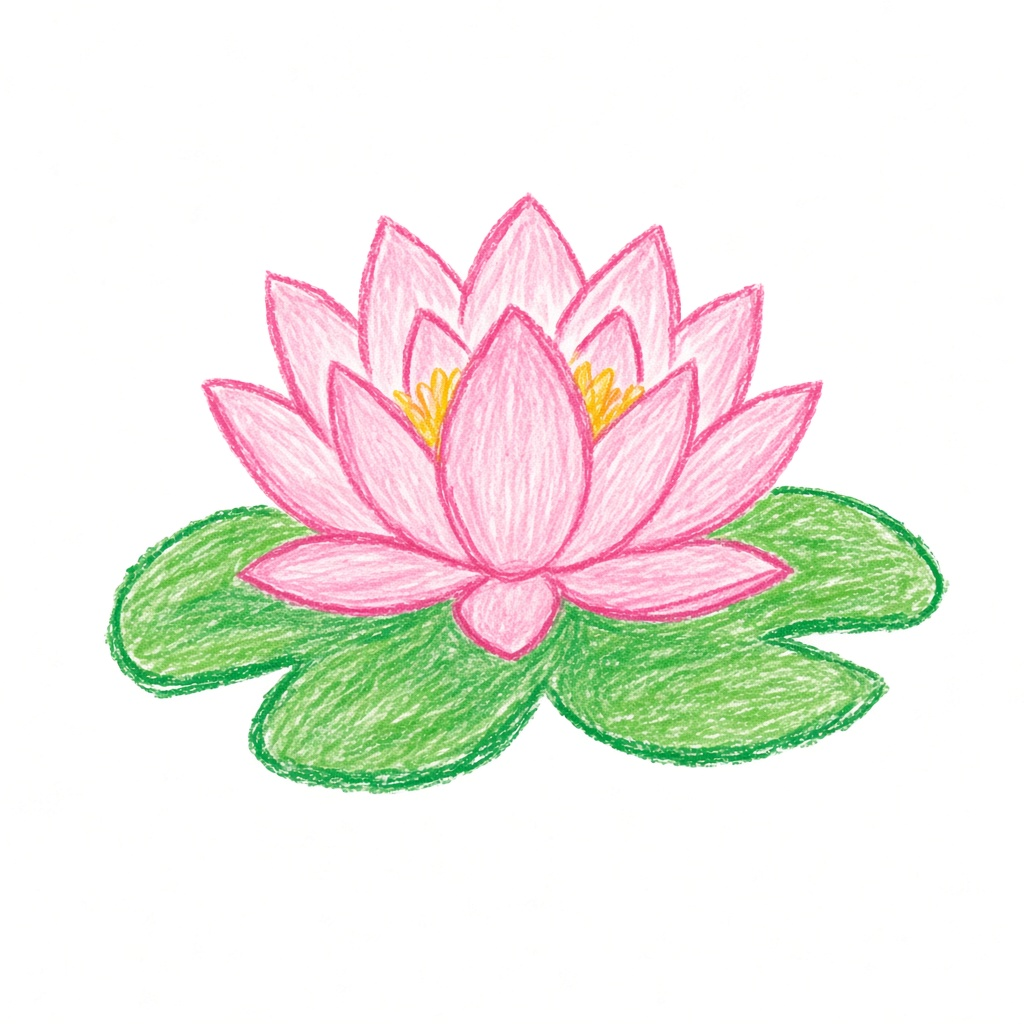
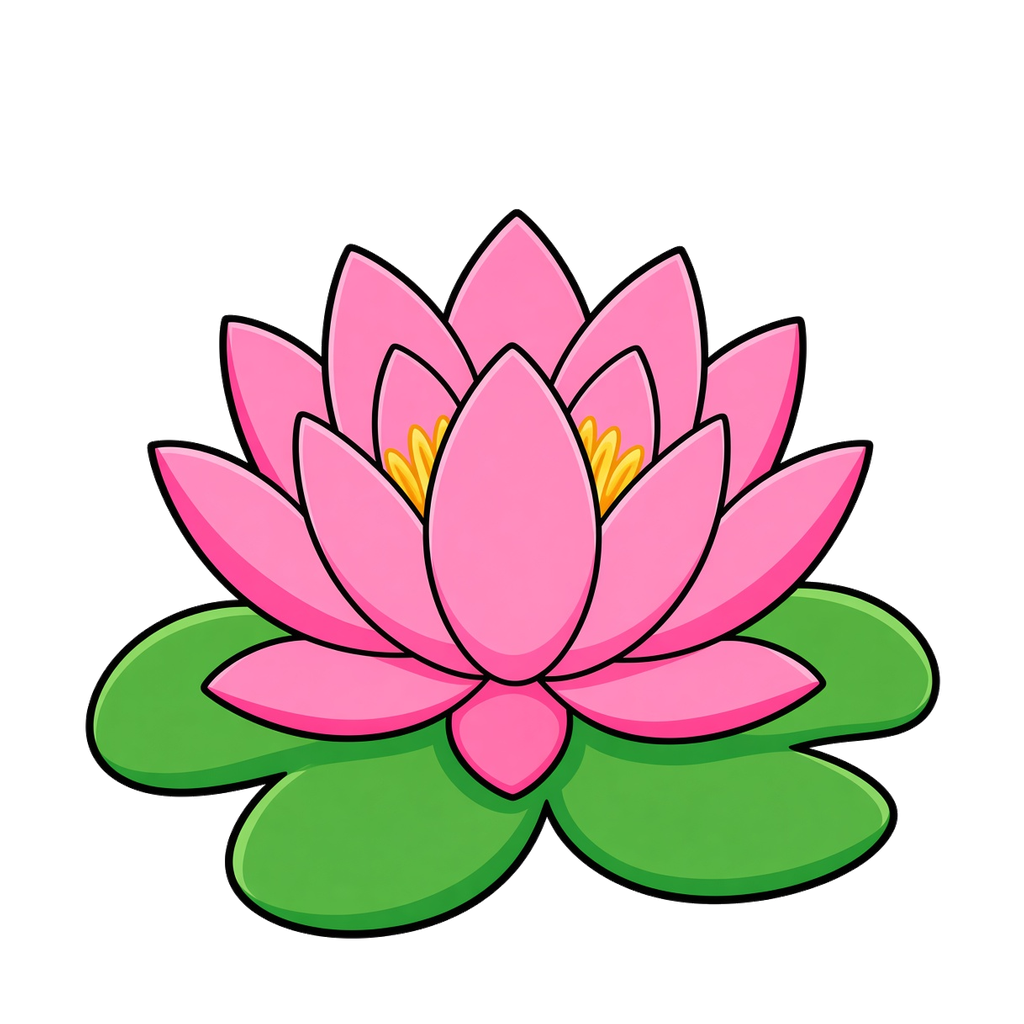
Queen Team-Up: softpass full art rework (tip 2026-11-15)
Replace shelf cover, pond background, character sheets, lily pad, and lotus
from approved softpass pack. Bump hub and play cache pins; add ASSET_V on
swapped PNG paths in game.js. Stage, bubble-bath, and star-director-lineup
unchanged.

diff --git a/play/queen-team-up/js/game.js b/play/queen-team-up/js/game.js
@@ -27,13 +27,15 @@ const PADS = [
   { x: 1970, y: 310, w: 270, h: 26, gugu: true },
 ];
 
+const ASSET_V = "?v=10";
+
 const ROSTER = [
-  { id: "mermaid", name: "Mermaid", element: "water", src: "assets/characters/mermaid.png", cols: 4, rows: 1, col: 1, row: 0, label: true },
-  { id: "sea-queen", name: "Sea queen", element: "water", src: "assets/characters/sea-queen.png", cols: 2, rows: 2, col: 0, row: 0 },
-  { id: "sky-queen", name: "Sky queen", element: "air", src: "assets/characters/sky-queen.png", cols: 2, rows: 2, col: 0, row: 0 },
-  { id: "plant-queen", name: "Plant queen", element: "plant", src: "assets/characters/plant-queen.png", cols: 4, rows: 1, col: 0, row: 0, label: true },
-  { id: "dancing-queen", name: "Dancing queen", element: "air", src: "assets/characters/dancing-queen.png", cols: 3, rows: 2, col: 2, row: 0, label: true },
-  { id: "teddy", name: "Yellow bear", element: "plant", src: "assets/characters/teddy.png", cols: 4, rows: 2, col: 0, row: 0, label: true },
+  { id: "mermaid", name: "Mermaid", element: "water", src: `assets/characters/mermaid.png${ASSET_V}`, cols: 4, rows: 1, col: 1, row: 0, label: true },
+  { id: "sea-queen", name: "Sea queen", element: "water", src: `assets/characters/sea-queen.png${ASSET_V}`, cols: 2, rows: 2, col: 0, row: 0 },
+  { id: "sky-queen", name: "Sky queen", element: "air", src: `assets/characters/sky-queen.png${ASSET_V}`, cols: 2, rows: 2, col: 0, row: 0 },
+  { id: "plant-queen", name: "Plant queen", element: "plant", src: `assets/characters/plant-queen.png${ASSET_V}`, cols: 4, rows: 1, col: 0, row: 0, label: true },
+  { id: "dancing-queen", name: "Dancing queen", element: "air", src: `assets/characters/dancing-queen.png${ASSET_V}`, cols: 3, rows: 2, col: 2, row: 0, label: true },
+  { id: "teddy", name: "Yellow bear", element: "plant", src: `assets/characters/teddy.png${ASSET_V}`, cols: 4, rows: 2, col: 0, row: 0, label: true },
 ];
 
 const stage = document.getElementById("stage");
@@ -749,13 +751,13 @@ async function boot() {
   useCoarsePointer();
 
   const jobs = [
-    loadImage("assets/backgrounds/full-pond.png").then((img) => (images.pond = img)),
+    loadImage(`assets/backgrounds/full-pond.png${ASSET_V}`).then((img) => (images.pond = img)),
     loadImage("assets/backgrounds/bubble-bath.png").then((img) => (images.bath = img)),
     loadImage("assets/backgrounds/stage.png").then((img) => (images.stage = img)),
-    loadImage("assets/elements/lily-pad.png").then((img) => (images.lily = img)),
-    loadImage("assets/elements/lotus.png").then((img) => (images.lotus = img)),
-    loadImage("assets/characters/gugu.png").then((img) => (images.gugu = img)),
-    loadImage("assets/characters/star-director.png").then((img) => (images.director = img)),
+    loadImage(`assets/elements/lily-pad.png${ASSET_V}`).then((img) => (images.lily = img)),
+    loadImage(`assets/elements/lotus.png${ASSET_V}`).then((img) => (images.lotus = img)),
+    loadImage(`assets/characters/gugu.png${ASSET_V}`).then((img) => (images.gugu = img)),
+    loadImage(`assets/characters/star-director.png${ASSET_V}`).then((img) => (images.director = img)),
   ];
   for (const r of ROSTER) {
     jobs.push(loadImage(r.src).then((img) => (images[r.id] = img)));

diff --git a/app.js b/app.js
@@ -237,8 +237,8 @@ const DEMOS = [
     parent: "Pick three friends · jump the lily pads · join the mermaid",
     blurb: "",
     kind: "play",
-    playPath: "play/queen-team-up/?v=9",
-    shelfCover: "10_game_assets/demo/queen-team-up.png?v=27",
+    playPath: "play/queen-team-up/?v=10",
+    shelfCover: "10_game_assets/demo/queen-team-up.png?v=28",
     iframeTitle: "Queen Team-Up",
   },
   {

diff --git a/play/queen-team-up/index.html b/play/queen-team-up/index.html
@@ -50,6 +50,6 @@
       <button type="button" id="t-jump" aria-label="Jump">Jump</button>
     </div>
   </div>
-  <script type="module" src="js/game.js?v=9"></script>
+  <script type="module" src="js/game.js?v=10"></script>
 </body>
 </html>

diff --git a/index.html b/index.html
@@ -117,7 +117,7 @@
     </div>
   </main>
 
-  <script src="app.js?v=107"></script>
+  <script src="app.js?v=108"></script>
   <script>
     (function () {
       var list = document.getElementById("list");
